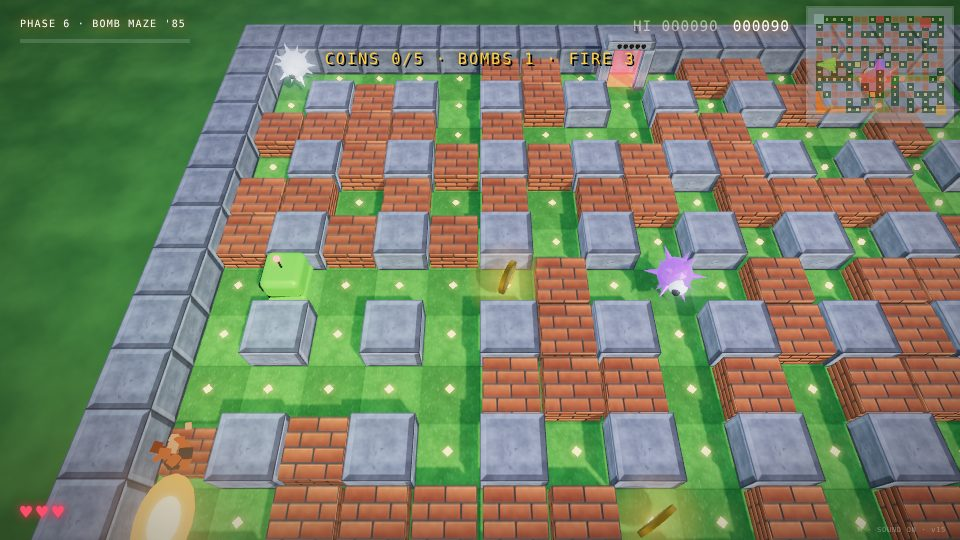
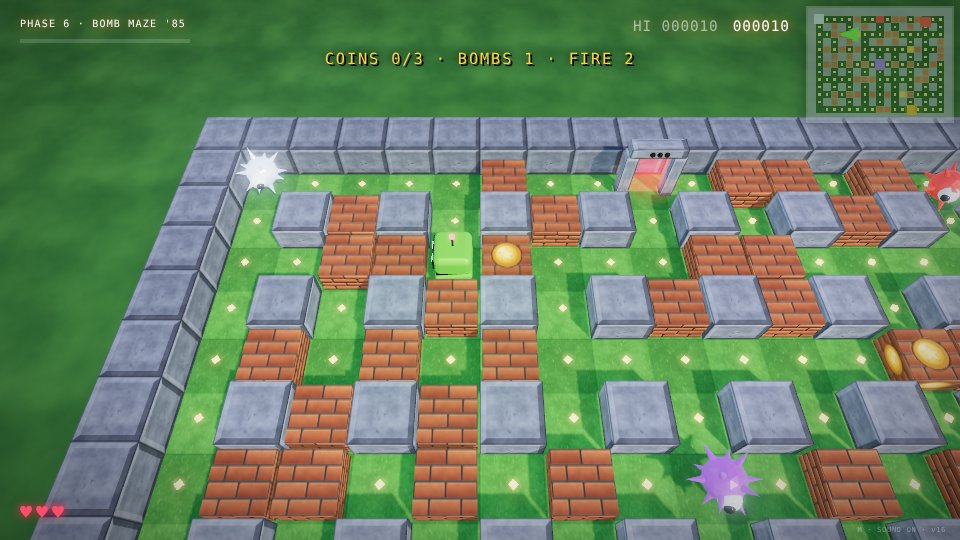
Bomb maze: fewer bricks, 3 coins, coin bricks marked (v16)
- bricks ~35% of the free cells instead of ~55%
- 3 coins open the gate (every loop)
- bricks with a coin show a glowing gold coin on their faces (and on the minimap)

Claude-Session: https://claude.ai/code/session_01W4EWHP8WNk2CnEoqsfp5hA

diff --git a/js/phases/p6-bomb-maze.js b/js/phases/p6-bomb-maze.js
@@ -1,6 +1,7 @@
 // ================= PHASE 6: BOMB MAZE '85 (Bomberman meets MUNCHBOT) =================
 // A grid arena: stone pillars that never break, brick blocks that do. Drop bombs to blast a way
-// through, blow up the glitches and dig out the hidden coins. Every coin lights a lamp on the gate;
+// through, blow up the glitches and dig out the coins (coin bricks show a gold coin on their faces).
+// Every coin lights a lamp on the gate;
 // when all of them are lit the gate opens. Some bricks also hide FIRE (longer blasts),
 // BOMB (one more bomb at a time) and CHOMP (a power diamond: eat the glitches).
 import * as THREE from 'three';
@@ -24,12 +25,12 @@ const HERO=[1,13], GATE=[9,1];
 const SPAWNS=[[17,1],[17,13],[9,7],[1,1]];
 const FUSE=2.3, FIRE_T=.6, HARD_H=1.15, RIM_H=1.5, SOFT_H=1.0;
 const IT={COIN:1,FIRE:2,BOMB:3,CHOMP:4};
-const COIN_GOAL=[5,6,7];                     // coins to find: loop 1, loop 2, loop 3 and after
+const COIN_GOAL=3;                           // coins to find to open the gate
 // B = everything this phase keeps besides the shared maze game (GS.G)
 const B={};
 
 // ---------- the arena ----------
-// border and every even/even cell are stone; ~55% of the rest are bricks, never next to a start
+// border and every even/even cell are stone; ~35% of the rest are bricks, never next to a start
 function genArena(seed){
   const R=mulberry(seed), rows=[], soft=new Uint8Array(GW*GH), item=new Uint8Array(GW*GH);
   const near=(x,y,[ax,ay],d)=>Math.abs(x-ax)+Math.abs(y-ay)<=d;
@@ -38,14 +39,14 @@ function genArena(seed){
     for(let x=0;x<GW;x++){
       if(x===0||y===0||x===GW-1||y===GH-1||(x%2===0&&y%2===0)){ s+='#'; continue; }
       const i=y*GW+x;
-      if(!keep(x,y)&&R()<.55) soft[i]=1;
+      if(!keep(x,y)&&R()<.35) soft[i]=1;
       s+=(x===HERO[0]&&y===HERO[1])||(x===GATE[0]&&y===GATE[1])?' ':'.';
     }
     rows.push(s); }
   // hide the coins far apart from each other, then the power-ups
   const bricks=[]; for(let i=0;i<soft.length;i++) if(soft[i]) bricks.push(i);
   for(let k=bricks.length-1;k>0;k--){ const j=Math.floor(R()*(k+1)); [bricks[k],bricks[j]]=[bricks[j],bricks[k]]; }
-  const need=COIN_GOAL[Math.min(GS.loop,COIN_GOAL.length-1)], coins=[];
+  const need=COIN_GOAL, coins=[];
   for(const minD of [6,4,2,0]) for(const i of bricks){ if(coins.length>=need) break; if(item[i]) continue;
     const x=i%GW, y=(i/GW)|0; if(near(x,y,HERO,3)&&minD) continue;
     if(coins.every(c=>Math.abs(c%GW-x)+Math.abs(((c/GW)|0)-y)>=minD)){ coins.push(i); item[i]=IT.COIN; } }
@@ -81,6 +82,25 @@ const brickT=once(()=>cvTex2(256,256,(g,b,w,h)=>{
   }
   grain(g,b,w,h,12,.16,5,4,.06);
 },false));
+// the same bricks with a gold coin set into the face, plus a mask that makes only the coin glow
+function drawCoin(g,cx,cy,r){
+  const gr=g.createRadialGradient(cx-r*.3,cy-r*.35,r*.1,cx,cy,r); gr.addColorStop(0,'#fff6c0'); gr.addColorStop(.5,'#f4c430'); gr.addColorStop(1,'#a06a08');
+  g.fillStyle='#4a2a08'; g.beginPath(); g.arc(cx,cy,r+6,0,TAU); g.fill();
+  g.fillStyle=gr; g.beginPath(); g.arc(cx,cy,r,0,TAU); g.fill();
+  g.strokeStyle='#a87010'; g.lineWidth=4; g.beginPath(); g.arc(cx,cy,r*.78,0,TAU); g.stroke();
+  g.fillStyle='#ffe680'; g.strokeStyle='#8a5a06'; g.lineWidth=2.5; g.beginPath();
+  for(let k=0;k<10;k++){ const a=-PI/2+k*PI/5, rr=k%2?r*.26:r*.58; g.lineTo(cx+Math.cos(a)*rr,cy+Math.sin(a)*rr); } g.closePath(); g.fill(); g.stroke();
+}
+const coinBrickT=once(()=>{
+  const t=brickT(), w=256, h=256, r=76;
+  const mk=()=>{ const c=document.createElement('canvas'); c.width=w; c.height=h; return c; };
+  const cv=mk(), bv=mk(), ev=mk(), g=cv.getContext('2d'), b=bv.getContext('2d'), e=ev.getContext('2d');
+  g.drawImage(t.map.image,0,0); b.drawImage(t.bump.image,0,0); drawCoin(g,w/2,h/2,r);
+  b.fillStyle=hg(40); b.beginPath(); b.arc(w/2,h/2,r+6,0,TAU); b.fill(); b.fillStyle=hg(235); b.beginPath(); b.arc(w/2,h/2,r,0,TAU); b.fill();
+  e.fillStyle='#000'; e.fillRect(0,0,w,h); drawCoin(e,w/2,h/2,r);
+  const map=new THREE.CanvasTexture(cv), bump=new THREE.CanvasTexture(bv), glow=new THREE.CanvasTexture(ev);
+  map.colorSpace=glow.colorSpace=THREE.SRGBColorSpace; return {map,bump,glow};
+});
 // checkered lawn, one 2x2 tile = 2x2 cells
 const lawnT=once(()=>cvTex2(256,256,(g,b,w,h)=>{
   pxFill(g,w,h,(x,y)=>{ const dark=((x>>7)+(y>>7))%2, n=fbm(x/w*10,y/h*10,10,4), n2=fbm(x/w*48,y/h*48,48,2);
@@ -175,12 +195,19 @@ const WORLD={name:'bomb', wallH:HARD_H,
   },
   decorate(W){
     W.bodies.castShadow=W.bodies.receiveShadow=true;
-    const t=brickT(), list=[]; for(let i=0;i<B.soft.length;i++) if(B.soft[i]) list.push(i);
-    const mesh=new THREE.InstancedMesh(new THREE.BoxGeometry(1,1,1),new THREE.MeshStandardMaterial({color:0xffffff,map:t.map,bumpMap:t.bump,bumpScale:2.6,roughness:.75}),Math.max(1,list.length));
-    const R=mulberry(9); list.forEach((i,k)=>{ const v=.9+R()*.18; mesh.setColorAt(k,new THREE.Color(v,v*.97,v*.95)); B.softK[i]=k; });
-    mesh.castShadow=mesh.receiveShadow=true; W.g.add(mesh); B.softMesh=mesh; B.softList=list;
+    // two brick meshes: plain bricks and coin bricks (gold coin on every face, softly glowing)
+    const t=brickT(), ct=coinBrickT(), lists=[[],[]];
+    for(let i=0;i<B.soft.length;i++) if(B.soft[i]) lists[B.item[i]===IT.COIN?1:0].push(i);
+    const mats=[new THREE.MeshStandardMaterial({color:0xffffff,map:t.map,bumpMap:t.bump,bumpScale:2.6,roughness:.75}),
+      new THREE.MeshStandardMaterial({color:0xffffff,map:ct.map,bumpMap:ct.bump,bumpScale:2.6,roughness:.6,metalness:.15,emissive:0xffc040,emissiveMap:ct.glow,emissiveIntensity:.7})];
+    const R=mulberry(9);
+    B.softMeshes=lists.map((list,m)=>{ const mesh=new THREE.InstancedMesh(new THREE.BoxGeometry(1,1,1),mats[m],Math.max(1,list.length));
+      list.forEach((i,k)=>{ const v=.9+R()*.18; mesh.setColorAt(k,new THREE.Color(v,v*.97,v*.95)); B.softK[i]=k; B.softM[i]=m; });
+      if(!list.length) mesh.setMatrixAt(0,ZERO);
+      mesh.castShadow=mesh.receiveShadow=true; W.g.add(mesh); return mesh; });
+    B.softList=[...lists[0],...lists[1]];
   },
-  layout(W,r){ B.softList.forEach((i,k)=>placeSoft(k,i,riseAt(r,i%GW,(i/GW)|0),1)); B.softMesh.instanceMatrix.needsUpdate=true; },
+  layout(W,r){ for(const i of B.softList) placeSoft(i,riseAt(r,i%GW,(i/GW)|0),1); softDirty(); },
   floor(W){
     const t=lawnT(); for(const x of [t.map,t.bump]){ x.repeat.set(GW/2,GH/2); x.offset.set(.5,.5); }
     const fl=new THREE.Mesh(new THREE.PlaneGeometry(GW*S,GH*S),new THREE.MeshStandardMaterial({color:0xffffff,map:t.map,bumpMap:t.bump,bumpScale:1.2,roughness:.92}));
@@ -189,10 +216,12 @@ const WORLD={name:'bomb', wallH:HARD_H,
   dots:{geo:dotGeo, mat:()=>new THREE.MeshBasicMaterial({color:new THREE.Color(1.7,1.35,.45),toneMapped:false}),
     place(W,i,k){ W.map(i%GW,(i/GW)|0,.5,_o); basisMat(_m4,_o,.8,.8,.8); W.dotMesh.setMatrixAt(k,_m4); }},
 };
-function placeSoft(k,i,h,sc){
-  if(h<=0||sc<=0){ B.softMesh.setMatrixAt(k,ZERO); return; }
-  const hh=Math.max(.02,SOFT_H*h*sc); GS.W3.map(i%GW,(i/GW)|0,hh/2,_o); basisMat(_m4,_o,S*.92*sc,hh,S*.92*sc); B.softMesh.setMatrixAt(k,_m4);
+function placeSoft(i,h,sc){
+  const mesh=B.softMeshes[B.softM[i]], k=B.softK[i];
+  if(h<=0||sc<=0){ mesh.setMatrixAt(k,ZERO); return; }
+  const hh=Math.max(.02,SOFT_H*h*sc); GS.W3.map(i%GW,(i/GW)|0,hh/2,_o); basisMat(_m4,_o,S*.92*sc,hh,S*.92*sc); mesh.setMatrixAt(k,_m4);
 }
+function softDirty(){ for(const m of B.softMeshes) m.instanceMatrix.needsUpdate=true; }
 
 // ---------- bombs and fire ----------
 function dropBomb(){
@@ -252,7 +281,7 @@ function bombsTick(dt){
 }
 // an item that was under a brick pops up
 function reveal(i){
-  const t=B.item[i]; placeSoft(B.softK[i],i,0,0); B.softMesh.instanceMatrix.needsUpdate=true; if(!t) return;
+  const t=B.item[i]; placeSoft(i,0,0); softDirty(); if(!t) return;
   const obj=makeItem(t); GS.W3.fx.add(obj); B.items.push({i,t,obj,age:0});
   if(t===IT.COIN){ SFX.coin(); hint('A COIN!',1); }
 }
@@ -300,7 +329,7 @@ function syncFx(dt){
   for(let i=n;i<B.fireN;i++){ M.setMatrixAt(i,ZERO); C.setMatrixAt(i,ZERO); }
   B.fireN=n; M.instanceMatrix.needsUpdate=C.instanceMatrix.needsUpdate=true;
   // bricks crumbling: sink and shrink
-  if(B.crumbles.length){ for(const c of B.crumbles){ const a=clamp(c.t/.35,0,1); placeSoft(B.softK[c.i],c.i,1-a*.6,1-a*.55); } B.softMesh.instanceMatrix.needsUpdate=true; }
+  if(B.crumbles.length){ for(const c of B.crumbles){ const a=clamp(c.t/.35,0,1); placeSoft(c.i,1-a*.6,1-a*.55); } softDirty(); }
   for(const it of B.items){ it.age+=dt; const s=easeOut(clamp(it.age/.35,0,1));
     W.map(it.i%GW,(it.i/GW)|0,.95+Math.sin(t*3+it.i)*.12,_o); it.obj.position.copy(_o.p); it.obj.scale.setScalar(s*1.3); it.obj.userData.spin.rotation.y=t*2.4+it.i; }
   const u=B.gate.userData; u.fieldM.opacity=(B.gateOpen?.5:.32)+Math.sin(t*(B.gateOpen?9:4))*.12;
@@ -335,7 +364,7 @@ const P={
     for(const q of [B.fireOut,B.fireCore]){ for(let i=0;i<N;i++) q.setMatrixAt(i,ZERO); q.frustumCulled=false; fx.add(q); }
     B.fireN=N; B.gate=makeGate(B.need); GS.W3.map(GATE[0],GATE[1],0,_o); B.gate.position.copy(_o.p); fx.add(B.gate);
   },
-  hint:()=>(TOUCH?'TAP = BOMB':'SPACE = BOMB')+' · FIND '+B.need+' COINS UNDER THE BRICKS',
+  hint:()=>(TOUCH?'TAP = BOMB':'SPACE = BOMB')+' · BLOW UP THE '+B.need+' GOLD COIN BRICKS',
   hooks:()=>({
     hit:e=>{ if(e){ e.dx=-e.dx; e.dy=-e.dy; e.decided=false; } hurtHero('CAUGHT'); },
     dot:i=>hideDot3(i),
@@ -344,7 +373,7 @@ const P={
   camera(){ cam.hgt=17; cam.back=10; cam.ahead=1; cam.k=5; cam.fov=55; },
   start(){
     const A=genArena(606+GS.loop*17);
-    Object.assign(B,{soft:A.soft,item:A.item,need:A.need,softK:new Int32Array(GW*GH).fill(-1),softList:[],softMesh:null,
+    Object.assign(B,{soft:A.soft,item:A.item,need:A.need,softK:new Int32Array(GW*GH).fill(-1),softM:new Uint8Array(GW*GH),softList:[],softMeshes:[],
       bombs:[],pool:[],flames:[],fire:new Float32Array(GW*GH),crumbles:[],items:[],coins:0,maxBombs:1,range:2,
       gateOpen:false,gateNag:false,gateIdx:GATE[1]*GW+GATE[0],want:false});
     const m={W:GW,H:GH,wrapX:false,wrapY:false,cell:new Uint8Array(GW*GH),dot:new Uint8Array(GW*GH),hgt:new Float32Array(GW*GH),solid:new Uint8Array(GW*GH)};
@@ -374,7 +403,7 @@ const P={
   hud:()=>({progress:B.coins/Math.max(1,B.need), left:B.gateOpen?'GATE OPEN → GO!':'COINS '+B.coins+'/'+B.need+' · BOMBS '+B.maxBombs+' · FIRE '+B.range}),
   mini:{cs:6, scale:[1,1.3], wall:'#9aa0ac', bg:'rgba(30,70,24,.88)', dot:'#ffe08a', pow:'#29f0ff'},
   miniExtras(g,cs,t){
-    g.fillStyle='#c8683a'; for(const i of B.softList) if(B.soft[i]) g.fillRect((i%GW)*cs+.5,((i/GW)|0)*cs+.5,cs-1,cs-1);
+    for(const i of B.softList) if(B.soft[i]){ g.fillStyle=B.item[i]===IT.COIN?'#ffd040':'#c8683a'; g.fillRect((i%GW)*cs+.5,((i/GW)|0)*cs+.5,cs-1,cs-1); }
     for(const it of B.items){ g.fillStyle=it.t===IT.COIN?'#ffd040':'#ffffff'; g.fillRect((it.i%GW)*cs+1,((it.i/GW)|0)*cs+1,cs-2,cs-2); }
     for(let i=0;i<B.fire.length;i++) if(B.fire[i]>0){ g.fillStyle='#ff8a20'; g.fillRect((i%GW)*cs,((i/GW)|0)*cs,cs,cs); }
     for(const b of B.bombs){ g.fillStyle=(t*8|0)%2?'#ff3020':'#000'; g.fillRect(b.x*cs+1,b.y*cs+1,cs-2,cs-2); }

diff --git a/js/core/audio.js b/js/core/audio.js
@@ -13,7 +13,7 @@ export function initAudio(){
   const d=noiseBuf.getChannelData(0); for(let i=0;i<d.length;i++) d[i]=Math.random()*2-1;
   music.next=AC.currentTime+.1;
 }
-export function setMute(m){ GS.muted=m; if(master) master.gain.setTargetAtTime(m?0:.7,AC.currentTime,.02); $('mute').textContent='M · SOUND '+(m?'OFF':'ON')+' · v15'; }
+export function setMute(m){ GS.muted=m; if(master) master.gain.setTargetAtTime(m?0:.7,AC.currentTime,.02); $('mute').textContent='M · SOUND '+(m?'OFF':'ON')+' · v16'; }
 export function tone(o){
   if(!AC) return; const t=o.t??AC.currentTime, d=o.d??.1;
   const os=AC.createOscillator(), g=AC.createGain();

diff --git a/index.html b/index.html
@@ -37,7 +37,7 @@
   <div class="pstats" id="pstats"></div>
   <div class="pb"><button id="b1">RETRY</button><button id="b2" class="ghost">FROM 1980</button></div>
 </div></div>
-<div id="mute">M · SOUND ON · v15</div>
+<div id="mute">M · SOUND ON · v16</div>
 <script type="importmap">
 {"imports":{"three":"https://cdn.jsdelivr.net/npm/three@0.160.0/build/three.module.js","three/addons/":"https://cdn.jsdelivr.net/npm/three@0.160.0/examples/jsm/"}}
 </script>

diff --git a/README.md b/README.md
@@ -21,7 +21,7 @@ You are MUNCHBOT, a hungry little robot, and the Glitches are after you. It star
 | 3 | **HELL MAZE** | First person in rusty, bump-mapped HD corridors. Demons hunt you (2 shots each), and so does THE BRUTE, a three-eyed boss demon that takes 5 shots and keeps coming back. Your arm cannon is the only gun in the maze and dots are ammo. Eat every dot to get out. |
 | 4 | **BLOCK WORLD '85** | A side-scrolling platformer in the spirit of the classic 80s/90s block worlds, built in real 3D: blue sky, puffy clouds, round green hills, brick steps, golden blocks, trampolines and a moving platform. Stomp the Glitches, double jump, and grab every coin (a counter shows how many are left) to open the brick gate at the end of the level. |
 | 5 | **LAND GRAB** | Xonix meets Pac-Man, styled after AirXonix: a board floating on the ocean. Fly your hover craft off the green land to draw a line across the stone field, then close it: every pocket without a monster ball rises up as land and its pearls are eaten. Glossy balls bounce through the field and cut your line, and a green cube rolls along the land. Pink power gems turn them blue: eat them, or close a line around them to trap them for a big bonus. Claim 90% to win (95% on loop 2, 97% after that). |
-| 6 | **BOMB MAZE '85** | Bomberman meets Pac-Man: a grassy arena of stone pillars and brick blocks. Drop bombs to blast through the bricks (and the Glitches, and yourself if you are not careful). Bombs chain-react. The bricks hide gold coins and power-ups: FIRE (longer blasts), BOMB (one more bomb at a time) and CHOMP (a power diamond, eat the Glitches). Every coin lights a lamp on the stone gate. Find them all (5, then 6 on loop 2, then 7) and the gate opens. |
+| 6 | **BOMB MAZE '85** | Bomberman meets Pac-Man: a grassy arena of stone pillars and brick blocks. Drop bombs to blast through the bricks (and the Glitches, and yourself if you are not careful). Bombs chain-react. 3 bricks carry a gold coin on their faces: blow them up and grab the coins. Other bricks hide power-ups: FIRE (longer blasts), BOMB (one more bomb at a time) and CHOMP (a power diamond, eat the Glitches). Every coin lights a lamp on the stone gate, and with all 3 the gate opens. |
 
 Phase 1 moves on by itself after 20 seconds. Phases 2 to 6 have no clock: you move on only when the map is cleared (or claimed, or the gate is open). Win and you can go again with **LOOP ×2**, faster every time.
 
